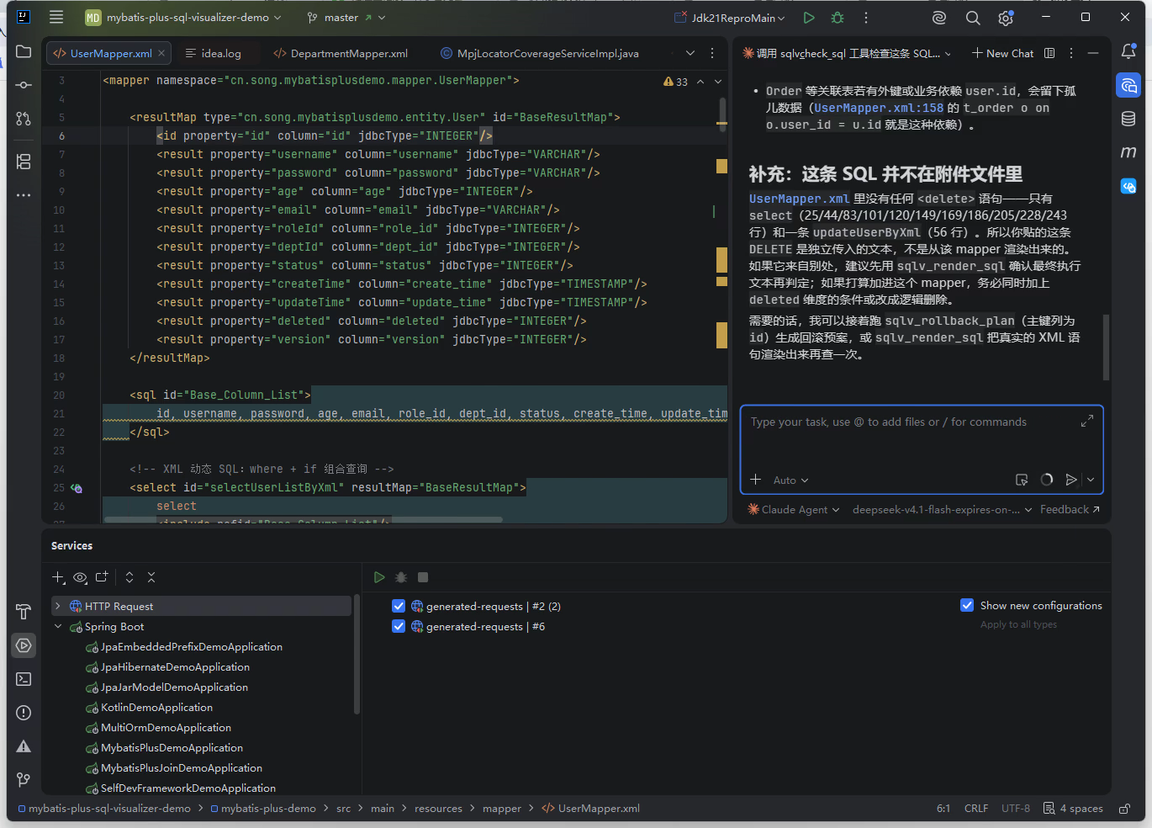
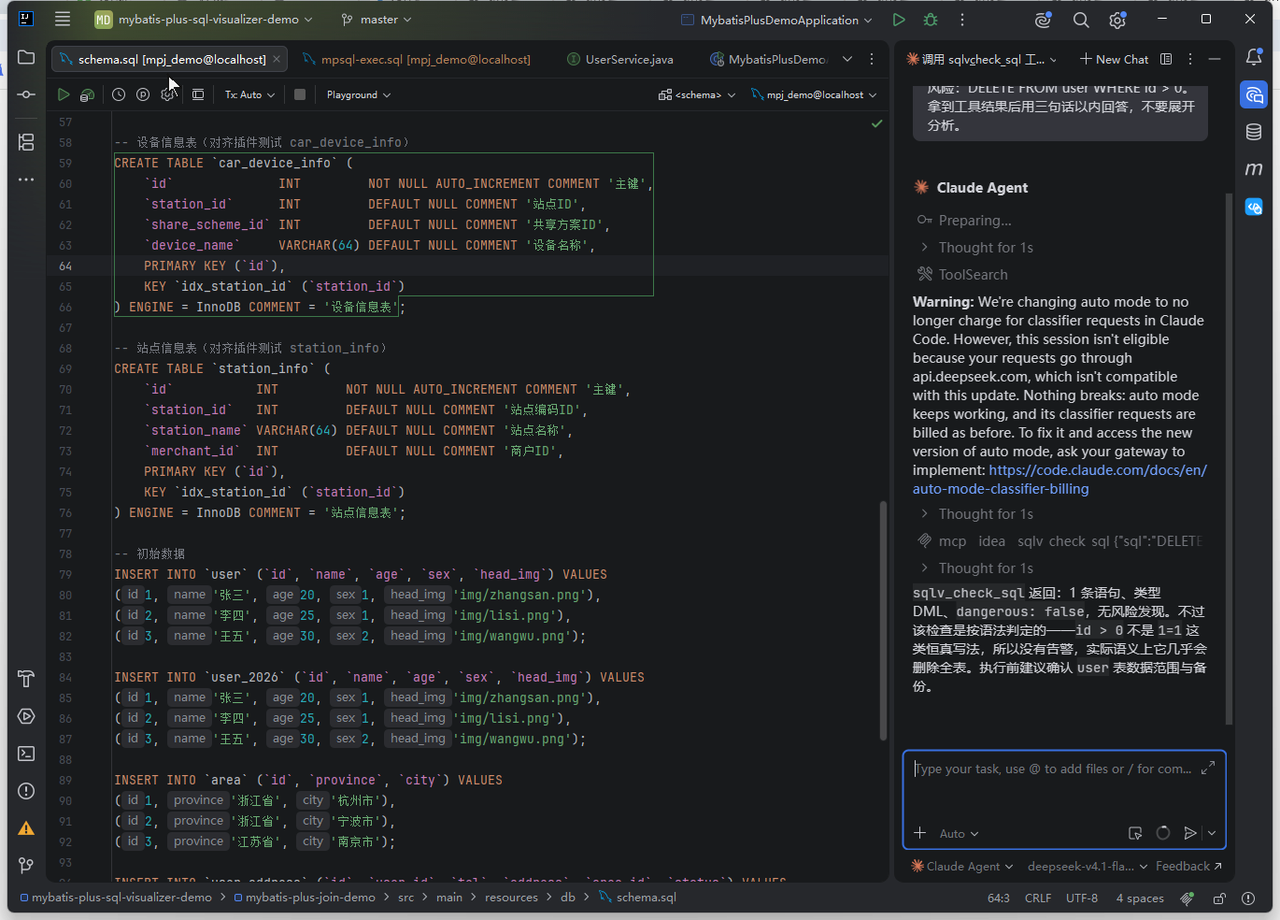
demo: 重录 mcp-agent 动图——真实 ACP 调用 sqlv_check_sql 全过程
新分镜（15.6s / 2.0MB / 接缝 0.53）：AI Assistant 面板（Managed by agent + DeepSeek v4.1）
→ 输入任务 → 发送 → agent 思考 → mcp: idea/sqlv_check_sql 调用卡 → 按工具返回的语句类型/
dangerous/findings 给结论 → 回起点态。

变更说明：2026.2 新 UI 下「打开 idea.log 看审计行」这一分镜已无法录制（Find Action 搜不到
Open File 动作、Ctrl+Shift+N 变窄搜索、MCP 拒项目外路径、Ctrl+E 过滤框吃不到合成粘贴），
审计行改由正文说明承载，两处 alt 文案同步订正。

diff --git a/en/features/mcp.md b/en/features/mcp.md
@@ -50,7 +50,7 @@ For example, `sqlv_mapper_check` goes beyond static contract checking and can al
 
 ## A Typical Workflow
 
-<GifPlayer src="/demo/mcp-agent.gif" alt="The Codex agent in AI Assistant calling a plugin MCP tool over ACP, with an audit line" />
+<GifPlayer src="/demo/mcp-agent.gif" alt="The ACP agent in AI Assistant calling the plugin MCP tool sqlv_check_sql over the built-in MCP server: an mcp: idea/sqlv_check_sql call card appears, followed by a conclusion drawn from the returned statement type, dangerous flag and findings" />
 Take "have the agent diagnose a slow SQL" as an example — the agent chains these tools as needed:
 
 1. `sqlv_render_sql` fetches the real executable SQL by file and line (parameters filled in, not the `?` placeholders in source)

diff --git a/features/mcp.md b/features/mcp.md
@@ -50,7 +50,7 @@
 
 ## 典型工作流
 
-<GifPlayer src="/demo/mcp-agent.gif" alt="AI Assistant 的 ACP agent 经 IDE 内置 MCP 调用 sqlv_check_sql，右边出分析结论、左边 idea.log 留审计行" />
+<GifPlayer src="/demo/mcp-agent.gif" alt="AI Assistant 的 ACP agent 经 IDE 内置 MCP 调用 sqlv_check_sql：面板中出现 mcp: idea/sqlv_check_sql 调用卡，随后按工具返回的语句类型、dangerous 与 findings 给出分析结论" />
 以「让 agent 查一条慢 SQL 的病根」为例，agent 会按需串起这些工具：
 
 1. `sqlv_render_sql` 按文件与行号拿到真实可执行 SQL（参数已回填，不是源码里的 `?` 占位）
